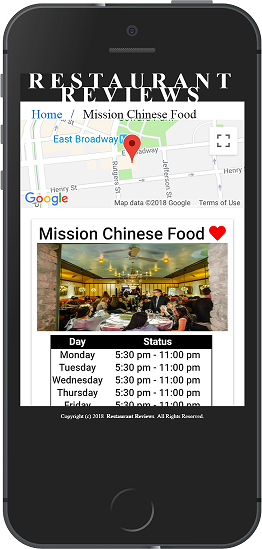
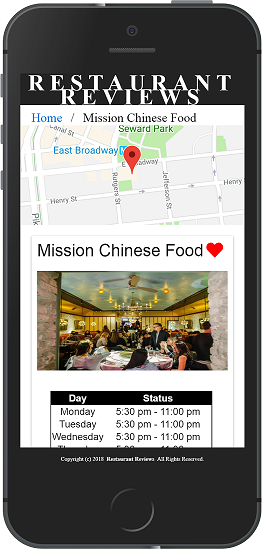
updated the app screens

diff --git a/css/mobile.css b/css/mobile.css
@@ -63,6 +63,7 @@
 #restaurant-name{
     margin: 0;  
     display: inline;
+    padding: 0;
 }
 
 #restaurant-img{
@@ -70,6 +71,7 @@
     width: 85vw;
     height: 25vh;
     margin: 0 auto;
+    padding: 1em 0;
 }
 .restaurant-tab{
     height: 25vh;
